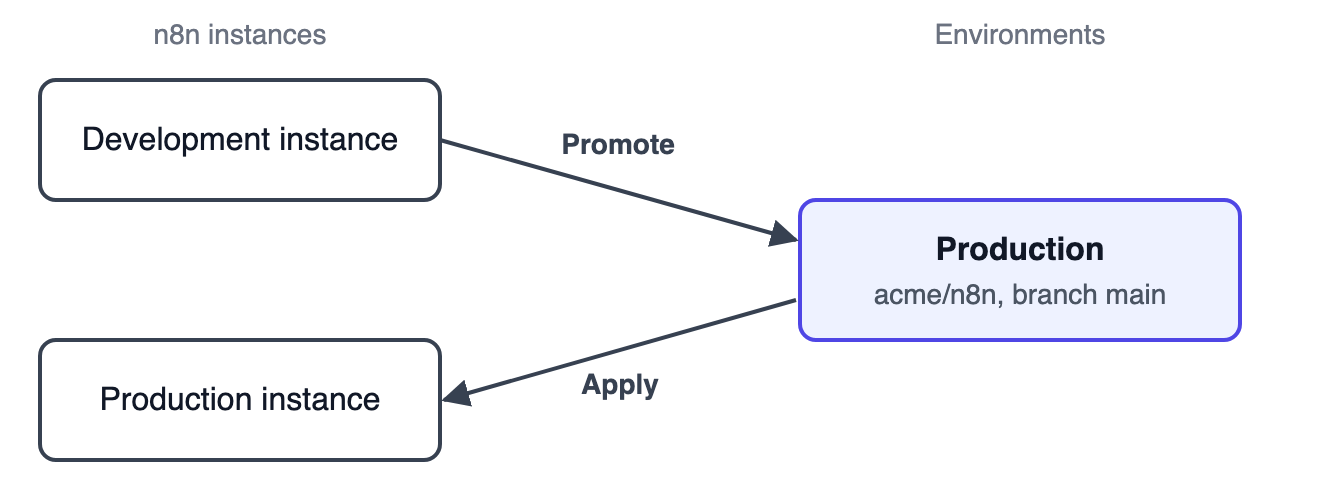
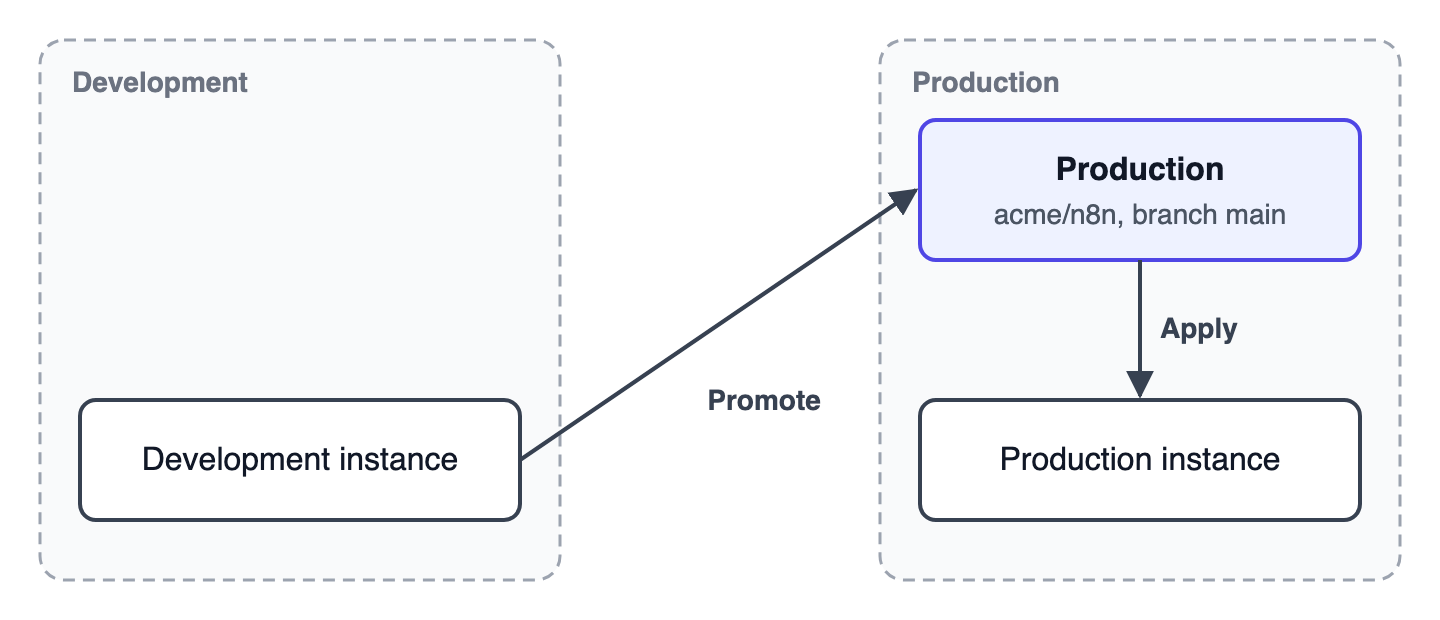
docs: Clarify the environment concept and redraw the environment diagrams

diff --git a/docs/administer/environments/README.md b/docs/administer/environments/README.md
@@ -11,7 +11,7 @@ tags:
 
 # Environments
 
-Environments let you move workflows and other n8n resources, such as credentials, variables, and data tables, through stages like development, staging, and production. You build and test changes in one environment, then promote them to the next.
+Environments let you move workflows and other n8n resources, such as credentials, variables, and data tables, through the steps of your release process, such as development, staging, and production. You build and test changes on one instance, then promote them to the next step.
 
 {% hint style="info" %}
 **Feature availability**
@@ -40,19 +40,23 @@ Separate environments let you change workflows without breaking the ones running
 
 ## How environments work
 
-![Changes move from a development instance through an optional review to the Production environment, then to production](../.gitbook/assets/environments-how-it-works.png)
+![A development instance promotes changes, optionally after a review, to the Production environment, which the production instance applies](../.gitbook/assets/environments-how-it-works.png)
 
-The development instance promotes changes to the Production environment. If that environment requires a promotion review, someone approves the promoted changes on the development instance first, for example in a promotion review based on a GitLab merge request. The production instance then applies the changes from the same environment. With Git-based promotion, the Production environment is a Git branch, and promoting commits to it.
+Changes move between instances through an environment:
+
+1. On the development instance, you promote changes to the Production environment.
+2. Optional: if the environment requires a promotion review, someone approves the changes on the development instance before they reach the environment.
+3. On the production instance, you apply the changes from the Production environment.
+
+With Git-based promotion, the Production environment is a Git branch, and promoting commits to it.
 
 ## Concepts
 
 ### Environment
 
-An environment is a stage that holds a version of your work, such as development, staging, or production. Each stage usually has its own n8n instance, with its own configuration, credentials, and data, so you can change and test workflows without affecting production.
+Conceptually, an environment is a step in your release process, such as staging or production. It holds the version of your work for that step. You promote changes to an environment from one instance, and the instance that runs that step applies them. Promoting doesn't change that instance until it applies.
 
-On each instance, you set up environments by promotion direction: the environment the instance promotes changes to, and the environment it applies changes from. The environment an instance applies from is that instance's source of truth. Each instance has at most one environment per direction. The instance you promote from is the source instance, and the instance you apply to is the target instance.
-
-With Git-based promotion, an environment is a repository and branch that holds the version of your work for that stage. Its settings decide whether each promote commits directly to the branch or pushes a feature branch, and with GitLab, whether it also opens a merge request.
+Technically, with Git-based promotion, an environment is a branch in a remote Git repository. On the instance that promotes, the promote environment configuration points to that repository and branch, and defines how changes reach the branch, for example by pushing a feature branch or opening a merge request. On the instance that applies, the apply environment configuration points to the same repository and branch.
 
 ### Promote and apply
 
@@ -60,6 +64,8 @@ Promote and apply are the two promotion actions:
 
 - **Promote** sends changes from your instance to an environment.
 - **Apply** brings changes from an environment into your instance.
+
+The instance you promote from is the source instance, and the instance you apply to is the target instance.
 
 A project promote or project apply covers one team project, and you choose the changes to include. An instance promote or instance apply covers every team project and overwrites them to match. An instance apply also deletes projects that aren't in the environment.
 

diff --git a/docs/administer/environments/set-up-environments.md b/docs/administer/environments/set-up-environments.md
@@ -35,7 +35,7 @@ On self-hosted n8n:
 
 ## Add an environment
 
-Set up the source instance first, and promote once before the target instance applies. See [First promote and apply](#first-promote-and-apply). An empty repository works for the first connect and for direct promotes. For feature-branch promotes, the environment's branch must already exist on the Git host.
+Each instance promotes to at most one environment and applies from at most one. Set up the source instance first, and promote once before the target instance applies. See [First promote and apply](#first-promote-and-apply). An empty repository works for the first connect and for direct promotes. For feature-branch promotes, the environment's branch must already exist on the Git host.
 
 If the instance is connected to Environments (Classic), upgrade it first: go to **Settings** > **Environments (Classic)**, select **Upgrade**, then confirm. See [Upgrade from Environments (Classic)](upgrade-from-environments-classic.md).
 
